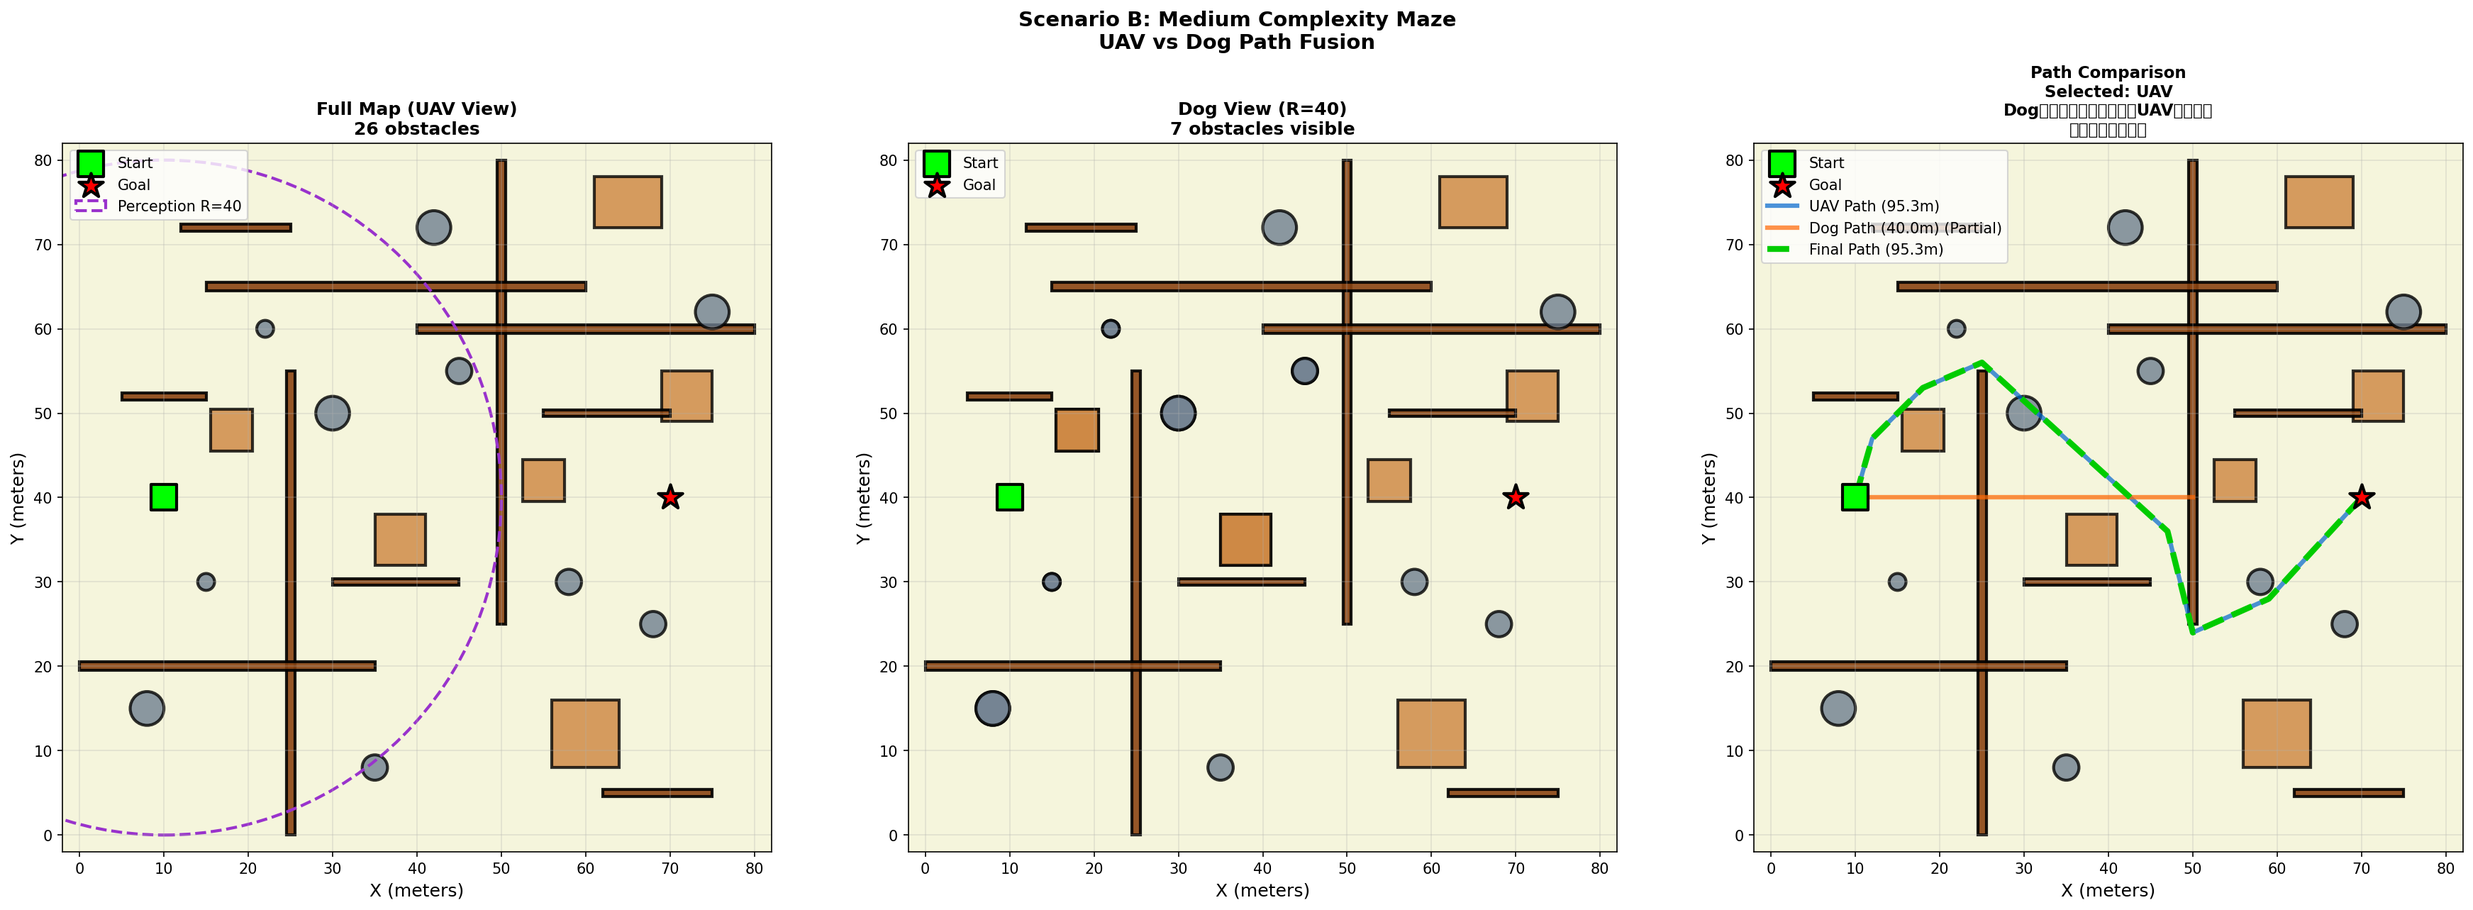
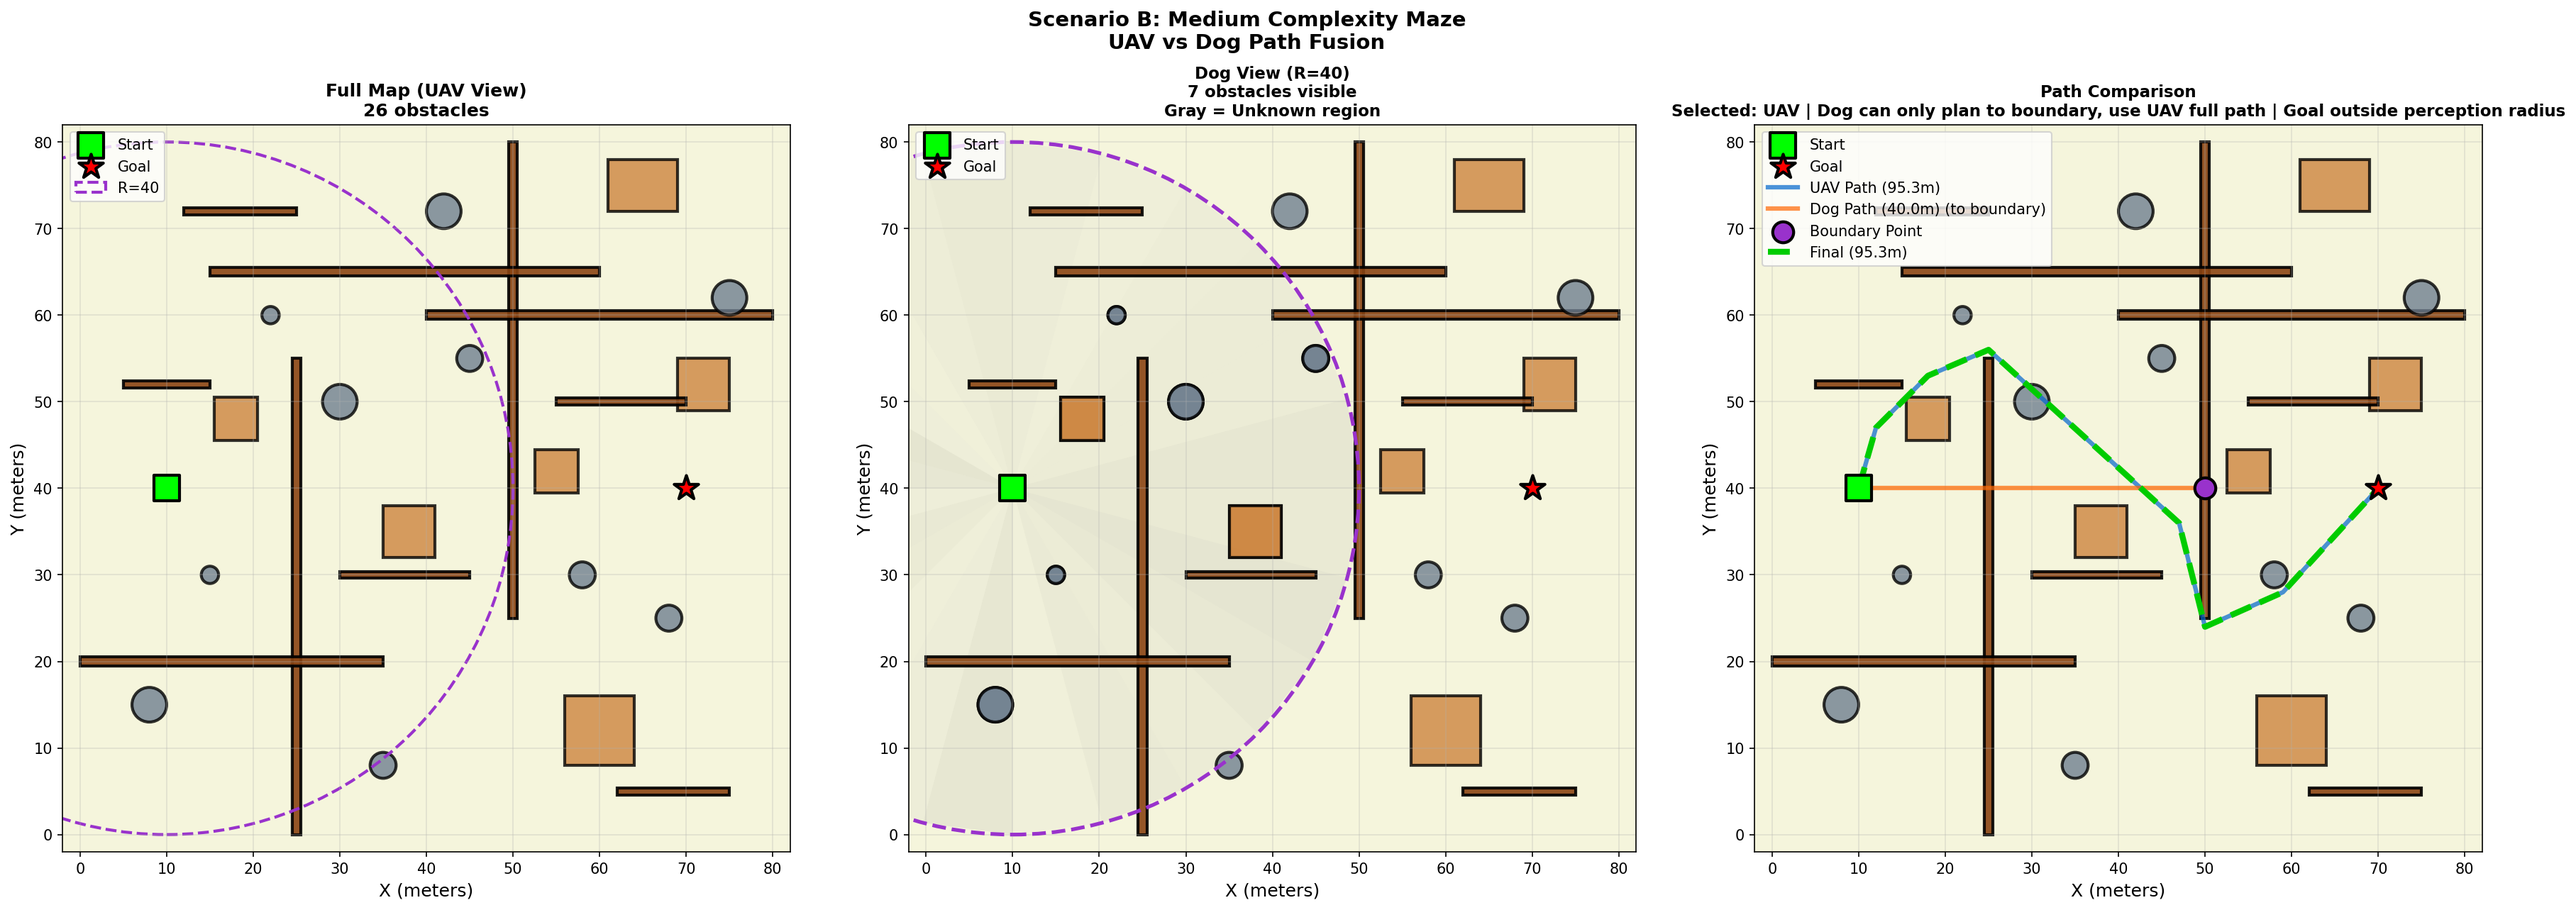
feat: Add mosaic effect for invisible regions and fix path planning
- Add mosaic/hatched pattern for non-visible areas in Dog's view
- Fix Dog path planning to find shortest path to boundary point
- Replace Chinese text with English to fix garbled characters
- Add boundary point visualization on comparison charts
- Dog now plans shortest path avoiding obstacles, not straight line

diff --git a/simulation/main_path_fusion.py b/simulation/main_path_fusion.py
@@ -3,8 +3,8 @@
 """
 Path Fusion Main Program
 
-路径融合主程序
-实现UAV与Dog路径规划融合，选择最优路径下发
+Path fusion implementation for UAV and Dog cooperation.
+Dog perception radius: R = min(W, H) / 2
 """
 
 import sys
@@ -12,12 +12,14 @@ import os
 import json
 import time
 import math
+import random
 from typing import Dict, List, Tuple, Optional
 from dataclasses import dataclass
 
 import matplotlib
 matplotlib.use('Agg')
 import matplotlib.pyplot as plt
+import matplotlib.patches as mpatches
 
 sys.path.insert(0, os.path.dirname(__file__))
 
@@ -25,7 +27,8 @@ from map_generator import Obstacle2D
 from algorithm.a_star import AStar
 from algorithm.perception_radius import (
     generate_dog_map,
-    calculate_perception_boundary
+    calculate_perception_boundary,
+    Point
 )
 from algorithm.path_optimizer import rdp_simplify
 from evaluation.metrics import PathMetrics
@@ -43,7 +46,8 @@ COLORS = {
     'background': '#F5F5DC',
     'boundary': '#9932CC',
     'final': '#00CC00',
-    'hidden': '#AAAAAA'
+    'hidden': '#AAAAAA',
+    'mosaic': '#CCCCCC'
 }
 
 
@@ -100,9 +104,38 @@ def draw_obstacle(ax, obs: Dict):
         ax.add_patch(polygon)
 
 
+def draw_mosaic_region(ax, center: Tuple[float, float], radius: float):
+    """Draw mosaic/hatched region to represent invisible areas"""
+    x, y = center
+    num_wedges = 24
+    
+    for i in range(num_wedges):
+        angle1 = 2 * math.pi * i / num_wedges
+        angle2 = 2 * math.pi * (i + 1) / num_wedges
+        
+        vertices = [(x, y)]
+        for angle in [angle1, angle2]:
+            px = x + radius * math.cos(angle)
+            py = y + radius * math.sin(angle)
+            vertices.append((px, py))
+        vertices.append((x, y))
+        
+        alpha = 0.1 + random.random() * 0.08
+        gray_value = 0.6 + random.random() * 0.2
+        color = str(gray_value)
+        
+        polygon = plt.Polygon(vertices, facecolor=color, 
+                             edgecolor='none', alpha=alpha, zorder=0)
+        ax.add_patch(polygon)
+    
+    circle = plt.Circle((x, y), radius, fill=False, color=COLORS['boundary'],
+                        linewidth=2.5, linestyle='--', zorder=2)
+    ax.add_patch(circle)
+
+
 def run_path_planning(obstacles: List[Dict], map_size: Tuple,
                       start: Tuple, goal: Tuple, agent_type: str) -> PathResult:
-    """运行路径规划"""
+    """Run path planning"""
     print(f"\n  [{agent_type}] Start: {start}, Goal: {goal}")
     print(f"  [{agent_type}] Obstacles: {len(obstacles)}")
 
@@ -127,11 +160,10 @@ def run_path_planning(obstacles: List[Dict], map_size: Tuple,
         return PathResult(status="failed", points=[], metrics={})
 
 
-def run_partial_planning(obstacles: List[Dict], map_size: Tuple,
-                         start: Tuple, boundary: Tuple, goal: Tuple,
-                         agent_type: str) -> PathResult:
-    """运行到边界的部分路径规划"""
-    print(f"\n  [{agent_type}] Partial planning to boundary: {boundary}")
+def run_boundary_planning(obstacles: List[Dict], map_size: Tuple,
+                         start: Tuple, boundary: Tuple, agent_type: str) -> PathResult:
+    """Plan shortest path from start to boundary point (not straight line)"""
+    print(f"\n  [{agent_type}] Planning to boundary: {boundary}")
 
     obs_objects = [Obstacle2D.from_dict(obs) for obs in obstacles]
     planner = AStar(obs_objects, map_size)
@@ -149,14 +181,14 @@ def run_partial_planning(obstacles: List[Dict], map_size: Tuple,
               f"turns: {metrics['num_turns']}")
         return PathResult(status="partial", points=result['points'], metrics=metrics,
                          boundary_point={'x': boundary[0], 'y': boundary[1]},
-                         reason="目标超出感知半径")
+                         reason="Goal outside perception radius")
     else:
-        print(f"  [{agent_type}] Partial planning failed!")
+        print(f"  [{agent_type}] Boundary planning failed!")
         return PathResult(status="failed", points=[], metrics={})
 
 
 def run_simplification(result: PathResult, agent_type: str) -> PathResult:
-    """运行路径简化"""
+    """Run path simplification"""
     if not result.points:
         return result
 
@@ -181,13 +213,7 @@ def run_simplification(result: PathResult, agent_type: str) -> PathResult:
 
 
 def fuse_paths(uav_result: PathResult, dog_result: PathResult) -> Tuple[PathResult, Dict]:
-    """
-    融合两条路径，选择最优
-
-    Returns:
-        最终路径结果
-        决策详情
-    """
+    """Fuse two paths and select optimal"""
     decision = {
         'uav_status': uav_result.status,
         'dog_status': dog_result.status,
@@ -198,7 +224,7 @@ def fuse_paths(uav_result: PathResult, dog_result: PathResult) -> Tuple[PathResu
 
     if uav_result.status != 'complete':
         decision['selected'] = 'dog'
-        decision['reason'].append("UAV规划失败，使用Dog路径")
+        decision['reason'].append("UAV planning failed, use Dog path")
         return dog_result, decision
 
     if dog_result.status == 'complete':
@@ -222,42 +248,42 @@ def fuse_paths(uav_result: PathResult, dog_result: PathResult) -> Tuple[PathResu
 
             if length_diff_pct < -5:
                 decision['selected'] = 'uav'
-                decision['reason'].append(f"UAV路径更短 {abs(length_diff_pct):.1f}%")
+                decision['reason'].append(f"UAV path shorter by {abs(length_diff_pct):.1f}%")
             elif length_diff_pct > 5:
                 decision['selected'] = 'dog'
-                decision['reason'].append(f"Dog路径更短 {length_diff_pct:.1f}%")
+                decision['reason'].append(f"Dog path shorter by {length_diff_pct:.1f}%")
             else:
                 turns_uav = uav_metrics.get('num_turns', 0)
                 turns_dog = dog_metrics.get('num_turns', 0)
 
                 if turns_uav < turns_dog:
                     decision['selected'] = 'uav'
-                    decision['reason'].append(f"UAV转弯次数更少 ({turns_uav} vs {turns_dog})")
+                    decision['reason'].append(f"UAV fewer turns ({turns_uav} vs {turns_dog})")
                 elif turns_dog < turns_uav:
                     decision['selected'] = 'dog'
-                    decision['reason'].append(f"Dog转弯次数更少 ({turns_dog} vs {turns_uav})")
+                    decision['reason'].append(f"Dog fewer turns ({turns_dog} vs {turns_uav})")
                 else:
                     smooth_uav = uav_metrics.get('smoothness', 0)
                     smooth_dog = dog_metrics.get('smoothness', 0)
 
                     if smooth_uav > smooth_dog:
                         decision['selected'] = 'uav'
-                        decision['reason'].append(f"UAV路径更平滑 ({smooth_uav:.3f} vs {smooth_dog:.3f})")
+                        decision['reason'].append(f"UAV smoother ({smooth_uav:.3f} vs {smooth_dog:.3f})")
                     else:
                         decision['selected'] = 'dog'
-                        decision['reason'].append(f"Dog路径更平滑 ({smooth_dog:.3f} vs {smooth_uav:.3f})")
+                        decision['reason'].append(f"Dog smoother ({smooth_dog:.3f} vs {smooth_uav:.3f})")
 
     elif dog_result.status == 'partial':
         decision['selected'] = 'uav'
-        decision['reason'].append("Dog只能规划到边界，选择UAV完整路径")
+        decision['reason'].append("Dog can only plan to boundary, use UAV full path")
         decision['reason'].append(dog_result.reason)
 
     else:
         decision['selected'] = 'uav'
-        decision['reason'].append("Dog规划失败，使用UAV路径")
+        decision['reason'].append("Dog planning failed, use UAV path")
 
     if not decision['reason']:
-        decision['reason'].append("使用UAV路径（默认）")
+        decision['reason'].append("Use UAV path (default)")
         decision['selected'] = 'uav'
 
     final_result = uav_result if decision['selected'] == 'uav' else dog_result
@@ -268,7 +294,7 @@ def fuse_paths(uav_result: PathResult, dog_result: PathResult) -> Tuple[PathResu
 
 def visualize_comparison(config: Dict, uav_result: PathResult, dog_result: PathResult,
                         final_result: PathResult, decision: Dict, output_path: str):
-    """可视化路径对比"""
+    """Visualize path comparison"""
     map_size = (config['map_size']['x'], config['map_size']['y'])
     start = (config['start']['x'], config['start']['y'])
     goal = (config['goal']['x'], config['goal']['y'])
@@ -289,14 +315,15 @@ def visualize_comparison(config: Dict, uav_result: PathResult, dog_result: PathR
                    label='Goal', edgecolors='black', linewidths=2)
 
     circle = plt.Circle(start, radius, fill=False, color=COLORS['boundary'],
-                        linewidth=2, linestyle='--', label=f'Perception R={radius}')
+                        linewidth=2, linestyle='--', label=f'R={radius}')
     axes[0].add_patch(circle)
 
     axes[0].set_xlim(-2, map_size[0] + 2)
     axes[0].set_ylim(-2, map_size[1] + 2)
     axes[0].set_xlabel('X (meters)', fontsize=12)
     axes[0].set_ylabel('Y (meters)', fontsize=12)
-    axes[0].set_title(f"Full Map (UAV View)\n{len(full_obstacles)} obstacles", fontsize=12, fontweight='bold')
+    axes[0].set_title(f"Full Map (UAV View)\n{len(full_obstacles)} obstacles", 
+                      fontsize=12, fontweight='bold')
     axes[0].legend(loc='upper left', fontsize=10)
     axes[0].grid(True, alpha=0.3)
     axes[0].set_aspect('equal')
@@ -304,12 +331,15 @@ def visualize_comparison(config: Dict, uav_result: PathResult, dog_result: PathR
 
     for obs in dog_obstacles:
         draw_obstacle(axes[1], obs)
+    
+    draw_mosaic_region(axes[1], start, radius)
 
     axes[1].set_xlim(-2, map_size[0] + 2)
     axes[1].set_ylim(-2, map_size[1] + 2)
     axes[1].set_xlabel('X (meters)', fontsize=12)
     axes[1].set_ylabel('Y (meters)', fontsize=12)
-    axes[1].set_title(f"Dog View (R={radius})\n{len(dog_obstacles)} obstacles visible", fontsize=12, fontweight='bold')
+    axes[1].set_title(f"Dog View (R={radius})\n{len(dog_obstacles)} obstacles visible\nGray = Unknown region", 
+                      fontsize=11, fontweight='bold')
     axes[1].legend(loc='upper left', fontsize=10)
     axes[1].grid(True, alpha=0.3)
     axes[1].set_aspect('equal')
@@ -326,22 +356,27 @@ def visualize_comparison(config: Dict, uav_result: PathResult, dog_result: PathR
         dy = [p['y'] for p in dog_result.points]
         label = f'Dog Path ({dog_result.metrics.get("path_length", "N/A")}m)'
         if dog_result.status == 'partial':
-            label += ' (Partial)'
+            label += ' (to boundary)'
         axes[2].plot(dx, dy, '-', color=COLORS['dog'], linewidth=3, alpha=0.7, label=label)
+        
+        if dog_result.boundary_point:
+            axes[2].scatter(dog_result.boundary_point['x'], dog_result.boundary_point['y'],
+                           c=COLORS['boundary'], s=200, marker='o', zorder=6,
+                           edgecolors='black', linewidths=2, label='Boundary Point')
 
     if final_result.points:
         fx = [p['x'] for p in final_result.points]
         fy = [p['y'] for p in final_result.points]
         axes[2].plot(fx, fy, '--', color=COLORS['final'], linewidth=4,
-                    label=f'Final Path ({final_result.metrics.get("path_length", "N/A")}m)')
+                    label=f'Final ({final_result.metrics.get("path_length", "N/A")}m)')
 
     axes[2].set_xlim(-2, map_size[0] + 2)
     axes[2].set_ylim(-2, map_size[1] + 2)
     axes[2].set_xlabel('X (meters)', fontsize=12)
     axes[2].set_ylabel('Y (meters)', fontsize=12)
 
-    reason_text = '\n'.join(decision.get('reason', []))
-    axes[2].set_title(f"Path Comparison\nSelected: {decision.get('selected', 'N/A').upper()}\n{reason_text}",
+    reason_text = ' | '.join(decision.get('reason', []))
+    axes[2].set_title(f"Path Comparison\nSelected: {decision.get('selected', 'N/A').upper()} | {reason_text}",
                       fontsize=11, fontweight='bold')
     axes[2].legend(loc='upper left', fontsize=10)
     axes[2].grid(True, alpha=0.3)
@@ -357,8 +392,8 @@ def visualize_comparison(config: Dict, uav_result: PathResult, dog_result: PathR
 
 
 def visualize_metrics(uav_metrics: Dict, dog_metrics: Dict, decision: Dict,
-                      output_path: str):
-    """可视化指标对比表格"""
+                    output_path: str):
+    """Visualize metrics comparison table"""
     def fmt(val, fmt_str='.3f'):
         if val is None or val == 'N/A':
             return 'N/A'
@@ -504,21 +539,23 @@ def main():
                                        start, goal, "UAV")
         uav_result = run_simplification(uav_result, "UAV")
 
-        if dog_config.get('goal_in_range', False):
+        start_point = Point(start[0], start[1])
+        goal_point = Point(goal[0], goal[1])
+        boundary_pt, goal_in_range = calculate_perception_boundary(start_point, goal_point, radius)
+
+        if goal_in_range:
             dog_result = run_path_planning(dog_config.get('obstacles', []), map_size,
-                                           start, goal, "Dog")
+                                          start, goal, "Dog")
+            dog_result = run_simplification(dog_result, "Dog")
+        elif boundary_pt:
+            dog_result = run_boundary_planning(
+                dog_config.get('obstacles', []), map_size,
+                start, (boundary_pt.x, boundary_pt.y), "Dog"
+            )
             dog_result = run_simplification(dog_result, "Dog")
         else:
-            boundary = dog_config.get('boundary_point')
-            if boundary:
-                dog_result = run_partial_planning(
-                    dog_config.get('obstacles', []), map_size,
-                    start, (boundary['x'], boundary['y']), goal, "Dog"
-                )
-                dog_result = run_simplification(dog_result, "Dog")
-            else:
-                dog_result = PathResult(status="failed", points=[], metrics={},
-                                       reason="无法计算边界点")
+            dog_result = PathResult(status="failed", points=[], metrics={},
+                                   reason="Cannot calculate boundary point")
 
         os.makedirs("output", exist_ok=True)
         os.makedirs(f"output/{scenario_id}", exist_ok=True)
